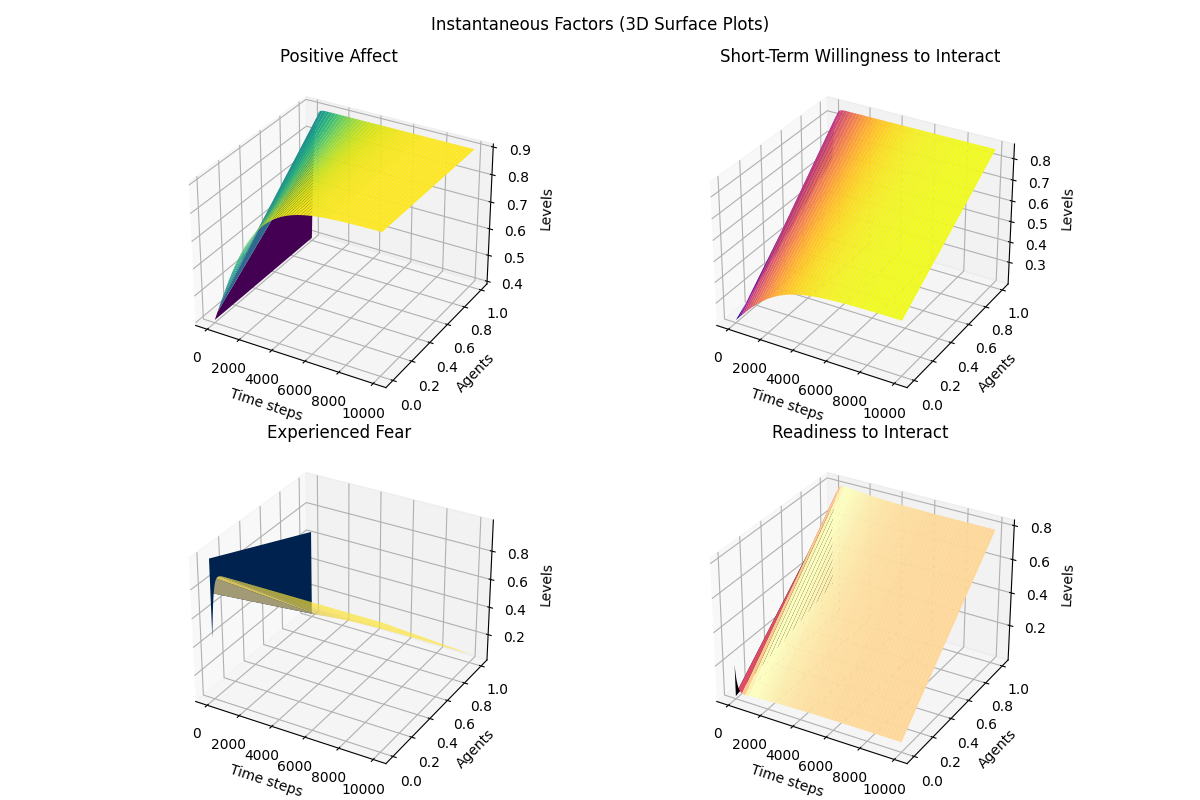
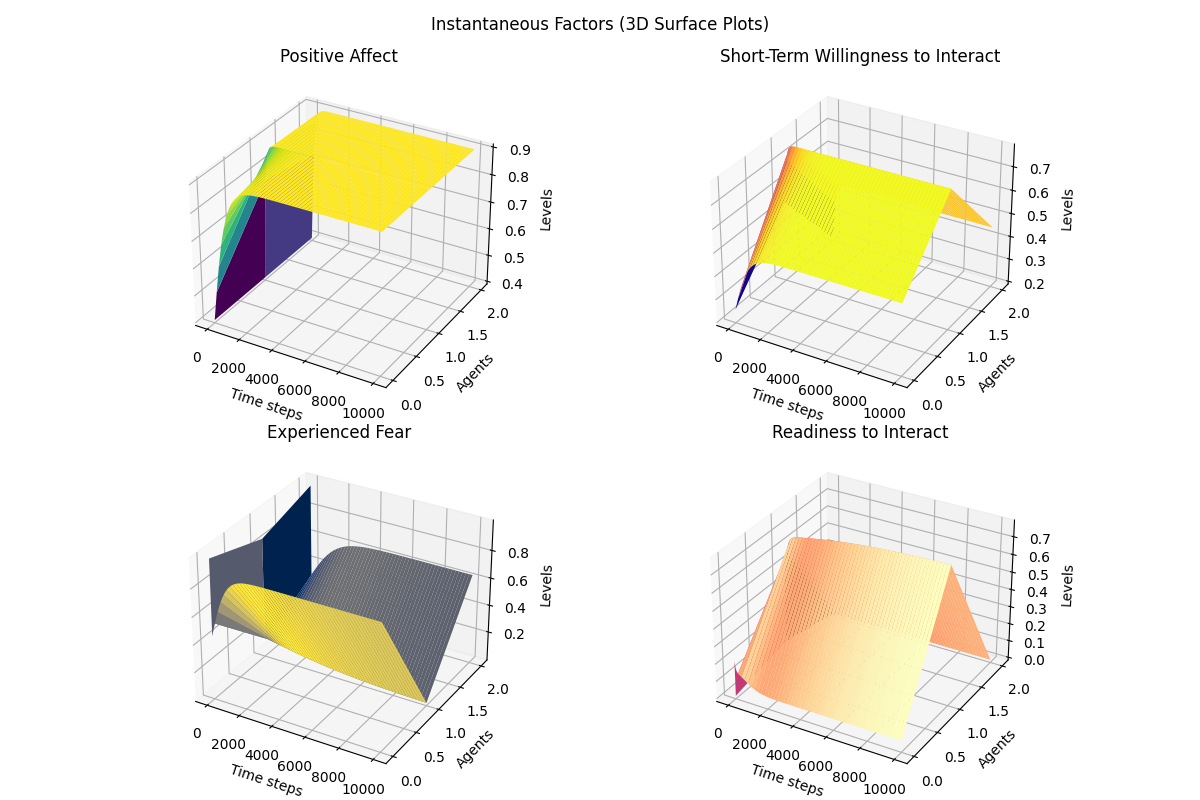
Dynamic Result Page

diff --git a/templates/resultV2.html b/templates/resultV2.html
@@ -4,12 +4,80 @@
 <head>
     <meta charset="UTF-8">
     <meta name="viewport" content="width=device-width, initial-scale=1.0">
-    <title>Agent Simulation</title>
+    <title>Simulation Results</title>
     <link rel="stylesheet" href="https://maxcdn.bootstrapcdn.com/bootstrap/4.5.2/css/bootstrap.min.css">
     <link rel="stylesheet" href="./static/sidebar.css">
     <link rel="stylesheet" href="./static/result.css">
-    <style>
-    </style>
+    <script>
+        document.addEventListener("DOMContentLoaded", () => {
+            const clusterData = JSON.parse(document.getElementById("cluster-data").textContent);
+            const totalClusters = clusterData.length;
+            let currentCluster = 0;
+
+            const updateClusterDisplay = () => {
+                const cluster = clusterData[currentCluster];
+                document.getElementById("cluster-title").textContent = `Cluster ${currentCluster + 1} of ${totalClusters}`;
+                document.getElementById("cluster-content").src = cluster.content;
+
+                // Update images
+                const images = document.getElementById("cluster-images");
+                images.innerHTML = `
+                    <tr>
+                        <td><img src="${cluster.images[0]}" alt="3D Temporal Factors"></td>
+                        <td><img src="${cluster.images[1]}" alt="3D Instantaneous Factors"></td>
+                    </tr>
+                    <tr>
+                        <td><img src="${cluster.images[2]}" alt="2D Temporal Factors"></td>
+                        <td><img src="${cluster.images[3]}" alt="2D Instantaneous Factors"></td>
+                    </tr>
+                `;
+
+                // Extract agent names from agent_name array
+                const agentNames = cluster.agent_name.map((agent) => `<th>${agent[0]}</th>`).join("");
+
+                // Update agent names and interests table
+                const interests = cluster.interests.map((interest) => `<td>${interest}</td>`).join("");
+                document.getElementById("cluster-interests").innerHTML = `
+                    <thead>
+                        <tr>${agentNames}</tr>
+                    </thead>
+                    <tbody>
+                        <tr>${interests}</tr>
+                    </tbody>
+                `;
+
+                // Update agent names and cultures table
+                const cultures = cluster.cultures.map((culture) => `<td>${culture}</td>`).join("");
+                document.getElementById("cluster-cultures").innerHTML = `
+                    <thead>
+                        <tr>${agentNames}</tr>
+                    </thead>
+                    <tbody>
+                        <tr>${cultures}</tr>
+                    </tbody>
+                `;
+            };
+
+            document.getElementById("prev-btn").addEventListener("click", () => {
+                if (currentCluster > 0) {
+                    currentCluster--;
+                    updateClusterDisplay();
+                }
+            });
+
+            document.getElementById("next-btn").addEventListener("click", () => {
+                if (currentCluster < totalClusters - 1) {
+                    currentCluster++;
+                    updateClusterDisplay();
+                }
+            });
+
+            // Initialize display
+            updateClusterDisplay();
+        });
+    </script>
+
+
 </head>
 
 <body class="bg-dark">
@@ -21,58 +89,38 @@
     <div class="main-content">
         <div class="container mt-5">
             <div class="main-head">
-                <h1>Simulation Results</h1>
-                <p>Below are the generated graphs from the simulation:</p>
+                <h1 id="cluster-title">Simulation Results</h1>
             </div>
 
-
-
-            <!-- Goes into Each Cluster where i is the cluster index-->
-            {% for i in range(image_urls|length) %}
             <div class="card">
                 <div class="card-header">
-                    <h1>Cluster {{ i+1 }}</h1>
+                    <h2>Cluster Details</h2>
                 </div>
                 <div>
-                    <iframe width="100%" height="400" src="{{ content[i] }}">
-                    </iframe>
+                    <iframe id="cluster-content" width="100%" height="400" frameborder="0"></iframe>
                 </div>
                 <div class="card-body">
-                    <table>
-                        <tr>
-                            <td><img src="{{ image_urls[i][0] }}" alt="Simulation Graph"></td>
-                            <td><img src="{{ image_urls[i][1] }}" alt="Simulation Graph"></td>
-                        </tr>
-                        <tr>
-                            <td><img src="{{ image_urls[i][2] }}" alt="Simulation Graph"></td>
-                            <td><img src="{{ image_urls[i][3] }}" alt="Simulation Graph"></td>
-                        </tr>
-                    </table>
+                    <table id="cluster-images"></table>
 
-                    <table>
-                        <tr>
-                            {% for j in range(interests[i]|length) %}
-                            <th>Agent {{ j+1 }}</th>
-                            {% endfor %}
-                        </tr>
-                        <tr>
-                            {% for j in range(interests[i]|length) %}
-                            <th>{{ interests[i][j] }}</th>
-                            {% endfor %}
-                        </tr>
-                        <tr>
-                            {% for j in range(culture[i]|length) %}
-                            <th>{{ culture[i][j] }}</th>
-                            {% endfor %}
-                        </tr>
-                    </table>
+                    <h4>Agent Interests</h4>
+                    <table id="cluster-interests"></table>
+
+                    <h4>Agent Cultural Values</h4>
+                    <table id="cluster-cultures"></table>
                 </div>
             </div>
-            <br><br><br>
-            {% endfor %}
 
+            <div class="navigation mt-4">
+                <button id="prev-btn" class="btn btn-primary">Previous Cluster</button>
+                <button id="next-btn" class="btn btn-primary">Next Cluster</button>
+            </div>
         </div>
     </div>
+
+    <!-- Hidden div to pass data -->
+    <script type="application/json" id="cluster-data">
+        {{ cluster_data | tojson }}
+    </script>
 </body>
 
 </html>

diff --git a/templates/index.html b/templates/index.html
@@ -134,6 +134,12 @@
                         </div>
                     </div>
                 </div>
+
+                <div>
+                    <form method="POST" action="/preset1">
+                        <button type="submit" class="btn btn-block btn-primary">Preset 1</button>
+                    </form>
+                </div>
             </div>
         </div>
     </div>

diff --git a/main.py b/main.py
@@ -697,6 +697,22 @@ async def reset():
     
     return RedirectResponse(url="/simhome", status_code=303)
 
+@app.post("/preset1")
+async def preset1():
+    agents_list.append(["Indian1",7,8])
+    agents_list.append(["Indian2",8,8])
+    agents_list.append(["Indian3",8,7])
+    agents_list.append(["All Tick",6,7])
+    agents_list.append(["All Tick",7,6])
+    tv_positions.append(["TV-1",7,7])
+    
+    agents_list.append(["Aqil",2,1])
+    agents_list.append(["Syafiq",1,1])
+    agents_list.append(["Suchira",1,2])
+    tv_positions.append(["TV-2",2,2])
+    
+    return RedirectResponse(url="/simhome", status_code=303)
+
 @app.get("/simhome")
 async def read_index(request: Request, db: Session = Depends(get_db)):
     
@@ -845,6 +861,7 @@ async def simulate(request: Request, db: Session = Depends(get_db), date: str = 
     image_urls = []             # [ Image_URL_Cluster_1, Image_URL_Cluster_2 ... ] // Image_URL_Cluster_1 = [Image1, Image2, Image3, ..]
     
     #Average Values per Agent
+    cluster_names = []
     cluster_interest = []       # [ Interest_Cluster_1, Interest_Cluster_2, ... ] // Interest_Cluster_1 = []
     cluster_interest_count = []
     cluster_culture = []        # [ Culture_Cluster_1, Culture_Cluster_2, ... ] // Culture_Cluster_1 = []
@@ -885,6 +902,8 @@ async def simulate(request: Request, db: Session = Depends(get_db), date: str = 
         # print(agent_array)    
         print("---- Unpacking Compelete ----")
         print("")   
+        
+        cluster_names.append(agent_name)
         
         #-------------------------- Interest Similarities -----------------------------------------
         print("---- Similarity and Model Adjustment ----")
@@ -1135,7 +1154,9 @@ async def simulate(request: Request, db: Session = Depends(get_db), date: str = 
     print(f'Cultural Array: {cluster_interest}')
     print(f'Cultural count: {cluster_culture_count}')
     print(f"Model Output: {cluster_behaviour}")
+    print(f'Image URLS: {image_urls}')
     print(f"Cluster Conent Output: {cluster_content}")
+    print(f'Agent Names: {simulation_agents_name}')
     print("")
     print("")
     
@@ -1155,8 +1176,21 @@ async def simulate(request: Request, db: Session = Depends(get_db), date: str = 
     print(cluster_content)
     
     # Render the result.html template with the image URLs
-    return templates.TemplateResponse("result.html", {"request": request, "image_urls": image_urls, "interests": cluster_interest, "culture": cluster_culture, "content": cluster_content})
-
+    # return templates.TemplateResponse("resultV2.html", {"request": request, "image_urls": image_urls, "interests": cluster_interest, "culture": cluster_culture, "content": cluster_content, "cluster_num": len(cluster_content)})
+    return templates.TemplateResponse("resultV2.html", {
+        "request": request,
+        "total_clusters": len(image_urls),
+        "cluster_data": [
+            {
+                "content": cluster_content[i],
+                "images": image_urls[i],
+                "agent_name": cluster_names[i],
+                "interests": cluster_interest[i],
+                "cultures": cluster_culture[i],  # Example; replace with actual cultural data
+            }
+            for i in range(len(image_urls))
+        ],
+    })
 #endregion
 
 # Static files setup (optional, depending on where your CSS/JS resides)
